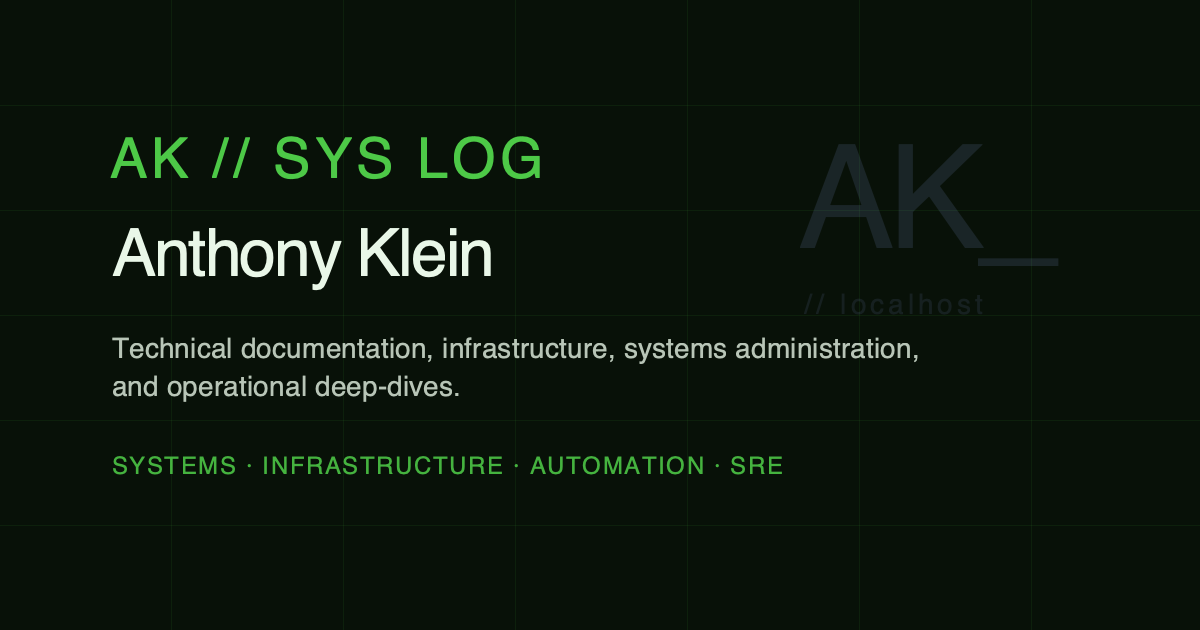
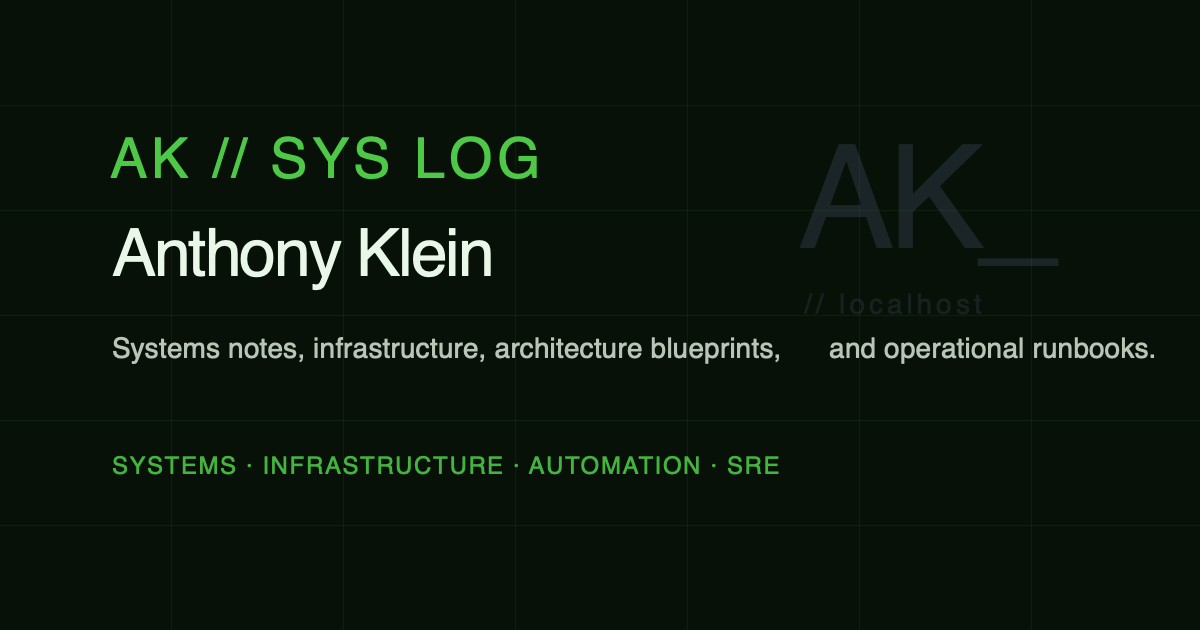
sharpen homepage copy with more operator-focused language

diff --git a/index.md b/index.md
@@ -2,7 +2,7 @@
 layout: default
 title: AK // SYS LOG
 author: Anthony Klein
-description: Technical documentation, architecture blueprints, and operational deep-dives into systems administration, IT infrastructure, SRE, and self-hosted platforms.
+description: Systems notes, architecture blueprints, and operational runbooks across systems administration, IT infrastructure, SRE, and self-hosted platforms.
 keywords:
   - systems administration
   - IT infrastructure
@@ -35,9 +35,9 @@ keywords:
 
 ### [ SYSTEM_STATUS: ONLINE ]
 
-**Welcome** to my centralized technical repository. This space serves as a living document for my work in systems administration, network architecture, and automation engineering.
+**Welcome** to my centralized systems log. This space serves as a working record of my work in systems administration, network architecture, and automation engineering.
 
-Whether it's deep-dives into Proxmox virtualization, CrowdSec implementations, or general infrastructure logic, this log is where I archive proven workflows and technical observations.
+Whether it's Proxmox virtualization, CrowdSec implementations, or general infrastructure logic, this log is where I document proven workflows, runbook patterns, and lessons pulled from live systems.
 
 For consulting and professional engagements → [aklein.pro](https://aklein.pro)
 
